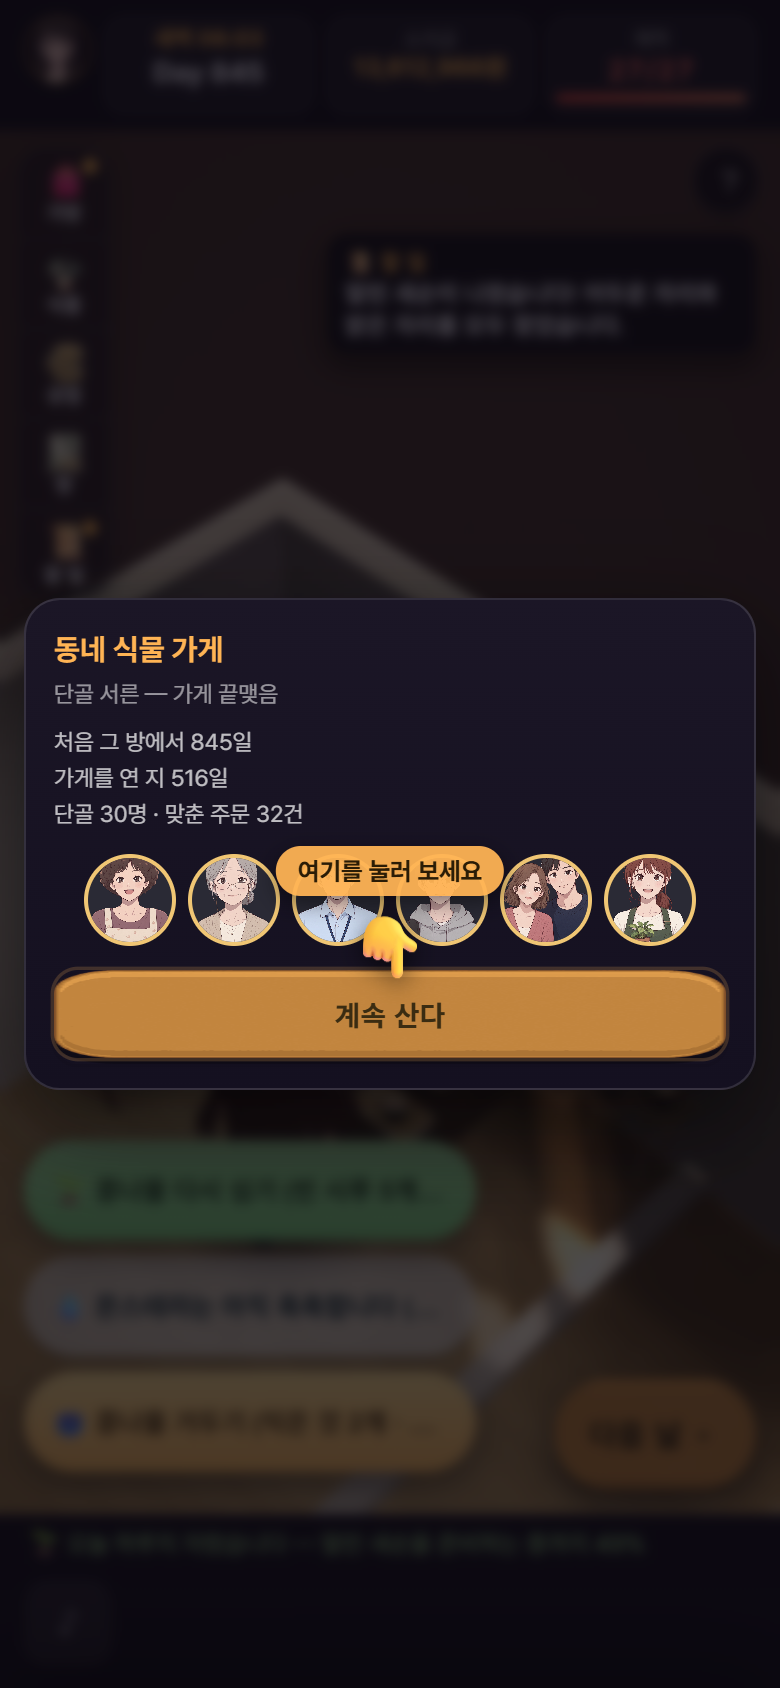
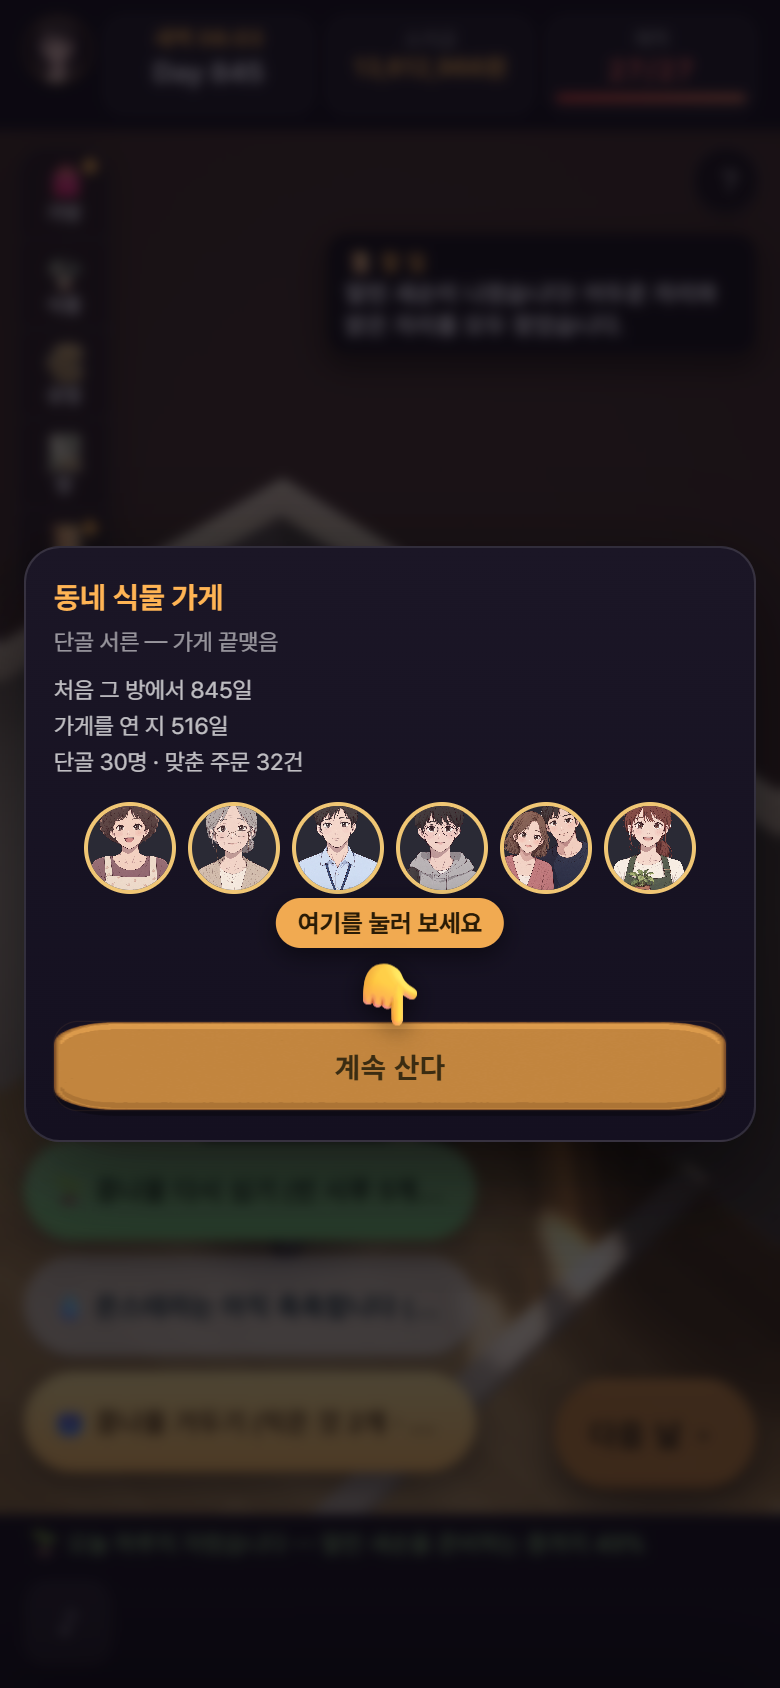
core: 끝맺음 장면 동안 일상 배너를 장면 뒤로 · 끝맺음 카드 손가락 자리(총괄 사진 짚음 ①②)
① banners — 장면(가게 끝맺음이 미뤄진 동안 · 끝맺음 카드 · 집 엔딩 그림)엔 «주문한 것이 왔습니다» 같은 일상 배너를 모아 두었다가 닫는 손(closeShopEnd ·
  closeHomeScene)이 낸다(heldBanners — var 로 끌어올림 · 부팅 줄보다 뒤에 적혀 있어 let 이면 «초기화 전» 오류)
② 손가락 «여기를 눌러 보세요»는 규칙대로 창의 일하는 단추(.go = [계속 산다])를 짚었다 — 말풍선이 단추 위에 서며 초상 줄을 덮었다 →
  카드 단추 위 자리를 비움(#shopEndPanel .pbtns margin-top 64px) · 할 일 창의 ✕ 가리킴도 같은 규칙(읽는 창 = 마지막 살아 있는 단추)
잰 것: probe_species2_walk PASS(sc5 · ca8 · caSaved · end30) · 사진 둘 다시 찍음(d75_end30_talk · d75_end30_card — 배너 없음 · 손가락이 초상과 단추 사이)

Claude-Session: https://claude.ai/code/session_01AK62mAKkXLtcZQ3tTu4Nq9

Changed region(s): [[0.0308, 0.3081, 0.9538, 0.6777], [0.4308, 0.3081, 0.5846, 0.3697], [0.9538, 0.3389, 0.9846, 0.3697]]

diff --git a/game.html b/game.html
@@ -331,6 +331,7 @@
   /* ★ 2026-10-23 D75 — 가게 끝맺음 카드 · 칭호 칩(plan-career-endings-spec §10-3 · §10-4) */
   #shopEndFaces{display:flex;gap:6px;justify-content:center;flex-wrap:wrap;margin:10px 0 2px}
   #shopEndFaces img{width:46px;height:46px;border-radius:50%;object-fit:cover;background:#2a2a35;border:2px solid #f0c674}
+  #shopEndPanel .pbtns{margin-top:64px}   /* 손가락 «여기를 눌러 보세요»(§hintAt — 창의 .go 단추 위)가 초상 줄을 덮지 않을 자리 */
   .titleChip{display:inline-block;padding:1px 9px;border-radius:10px;background:#f0c674;color:#2b2112;font-weight:700;font-size:.92em}
   @keyframes homeIn{from{opacity:0;filter:brightness(.4)}to{opacity:1;filter:none}}
   html.homescene #next,html.homescene #resow,html.homescene #waterCrop,html.homescene #waterPot,html.homescene #harvestCrop,
@@ -10237,7 +10238,7 @@ function openShopEndWhenQuiet() {
   $('shopEndPanel').classList.add('on'); $('shopEndPanel').setAttribute('aria-hidden', 'false');
   return true;
 }
-function closeShopEnd() { $('shopEndPanel').classList.remove('on'); $('shopEndPanel').setAttribute('aria-hidden', 'true'); draw(); }
+function closeShopEnd() { $('shopEndPanel').classList.remove('on'); $('shopEndPanel').setAttribute('aria-hidden', 'true'); draw(); flushHeldBanners(); }
 window.__byeotShopEnd = () => ({ pending: shopEndPending, open: $('shopEndPanel').classList.contains('on'), rows: $('shopEndRows').textContent, faces: $('shopEndFaces').querySelectorAll('img').length });   /* 재는 손잡이 */
 function closeHomeScene() {
   const sc = $('homeScene'); sc.classList.remove('on'); sc.setAttribute('aria-hidden', 'true');
@@ -10246,6 +10247,7 @@ function closeHomeScene() {
   window.__byeotNextChapter = 'job_select';
   pushLog(S, '🏡 다음 장 — 직업 고르기(준비 중)');
   draw();
+  flushHeldBanners();   /* 2026-10-23 — 장면 동안 미뤄 둔 배너 */
   openChapterEnd();   /* ★ 2026-10-08 D28 */
 }
 /* ══ ★★ 2026-10-08 D28 — 엔딩 뒤 «다음 장 준비 중»으로 멈춘다 (총괄 14:00 ㉠ · [plan] 지도 §D28) ══
@@ -18766,9 +18768,17 @@ let bannerTimer = null;
      ② **많아야 셋** — 그 이상은 「…외 N개」로 줄인다. 화면을 넘기지 않는 것이 먼저다
      ③ **누르면 사라진다** — 읽었으면 치울 수 있어야 한다. 6초를 기다릴 이유가 없다
    ⚠ 지우는 것이 아니라 **접는 것**이다. 무슨 일이 몇 번 났는지는 기록(pushLog)에 그대로 남는다. */
+/* ★ 2026-10-23 총괄 — 끝맺음 장면(가게 끝맺음 · 집 엔딩) 동안엔 일상 배너(«주문한 것이 왔습니다» 등)를 장면 뒤로 미룬다.
+     장면 = 끝맺음이 미뤄져 있음(대사 중) · 끝맺음 카드 · 집 엔딩 그림 · 내 집 되묻기 — 닫는 손(closeShopEnd · closeHomeScene)이 모아 둔 것을 낸다 */
+var heldBanners = [];   /* var — 부팅 코드(아래쪽 줄)보다 뒤에 적혀 있어도 끌어올려진다(let 이면 부팅 중 배너가 «초기화 전» 오류) */
+function sceneHoldNow() {
+  try { return !!(shopEndPending || $('shopEndPanel').classList.contains('on') || $('homeScene').classList.contains('on')); } catch { return false; }
+}
+function flushHeldBanners() { if (!Array.isArray(heldBanners) || !heldBanners.length || sceneHoldNow()) return; const l = heldBanners; heldBanners = []; banners(l); }
 function banners(events) {
   const list = (events || []).filter(Boolean);
   if (!list.length) return;
+  if (sceneHoldNow()) { if (!Array.isArray(heldBanners)) heldBanners = []; heldBanners.push(...list); return; }
   const seen = new Set(), uniq = [];
   for (const e of list) {
     const k = (e.title || '') + '\u0000' + (e.sub || '');
